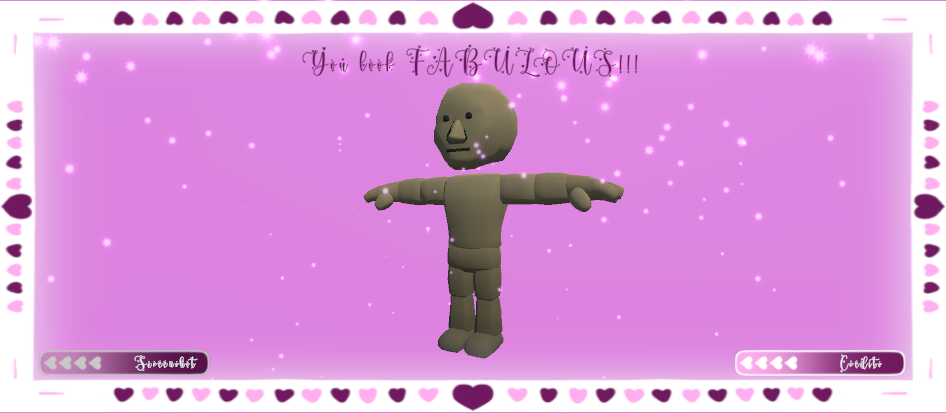
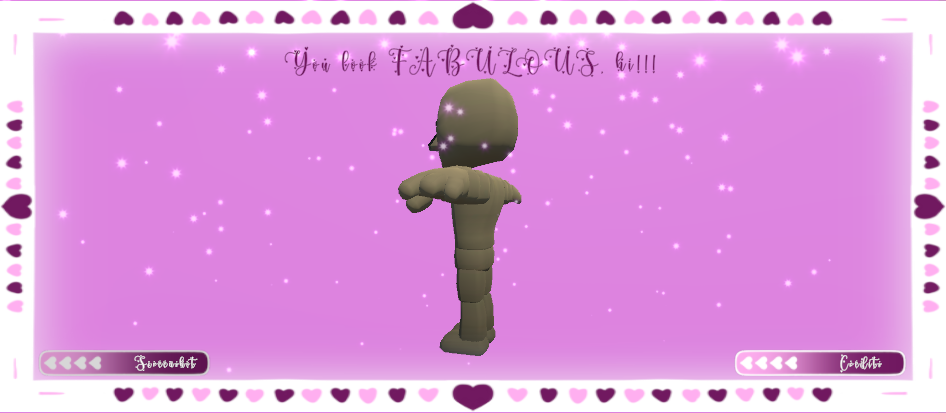
fixed text

diff --git a/CS Project/Assets/Scripts/GameMenu.cs b/CS Project/Assets/Scripts/GameMenu.cs
@@ -24,9 +24,9 @@ public class GameMenu : MonoBehaviour
     public AudioClip festiveBling;
     public TextMeshProUGUI playerText;
     public GameObject screenshotText;
-    public Text playerName;
-    public InputField field;
+    public TMP_InputField field;
     public int currOption;
+    public string player;
 
     private GameObject[] prettyGirl;
     private GameObject[] gigaChad;
@@ -103,10 +103,10 @@ public class GameMenu : MonoBehaviour
     }
 
     //TEXT-------------------------------------------------------------------------------
-    public void SetPlayerName()
+    /*public void SetPlayerName()
     {
-        //field.text = field.text.ToString();
-        //field.text = GameNewSave.PlayerName;
+        field.text = field.text.ToString();
+        
 
         //playerName.text = PlayerPrefs.GetString("homieName");
         //playerName.text = field.text;
@@ -122,6 +122,17 @@ public class GameMenu : MonoBehaviour
     public void SetPlayerText()
     {
         //playerText.text = "You look FABULOUS, " + PlayerName + "!!!";
+    }*/
+
+    public void SetName()
+    {
+        player = field.text;
+    }
+
+    public void SetWinText()
+    {
+        //SetName();
+        playerText.text = "You look FABULOUS, " + player + "!!!";
     }
 
     //CLOTHING PRESETS--------------------------------------------------------------------
